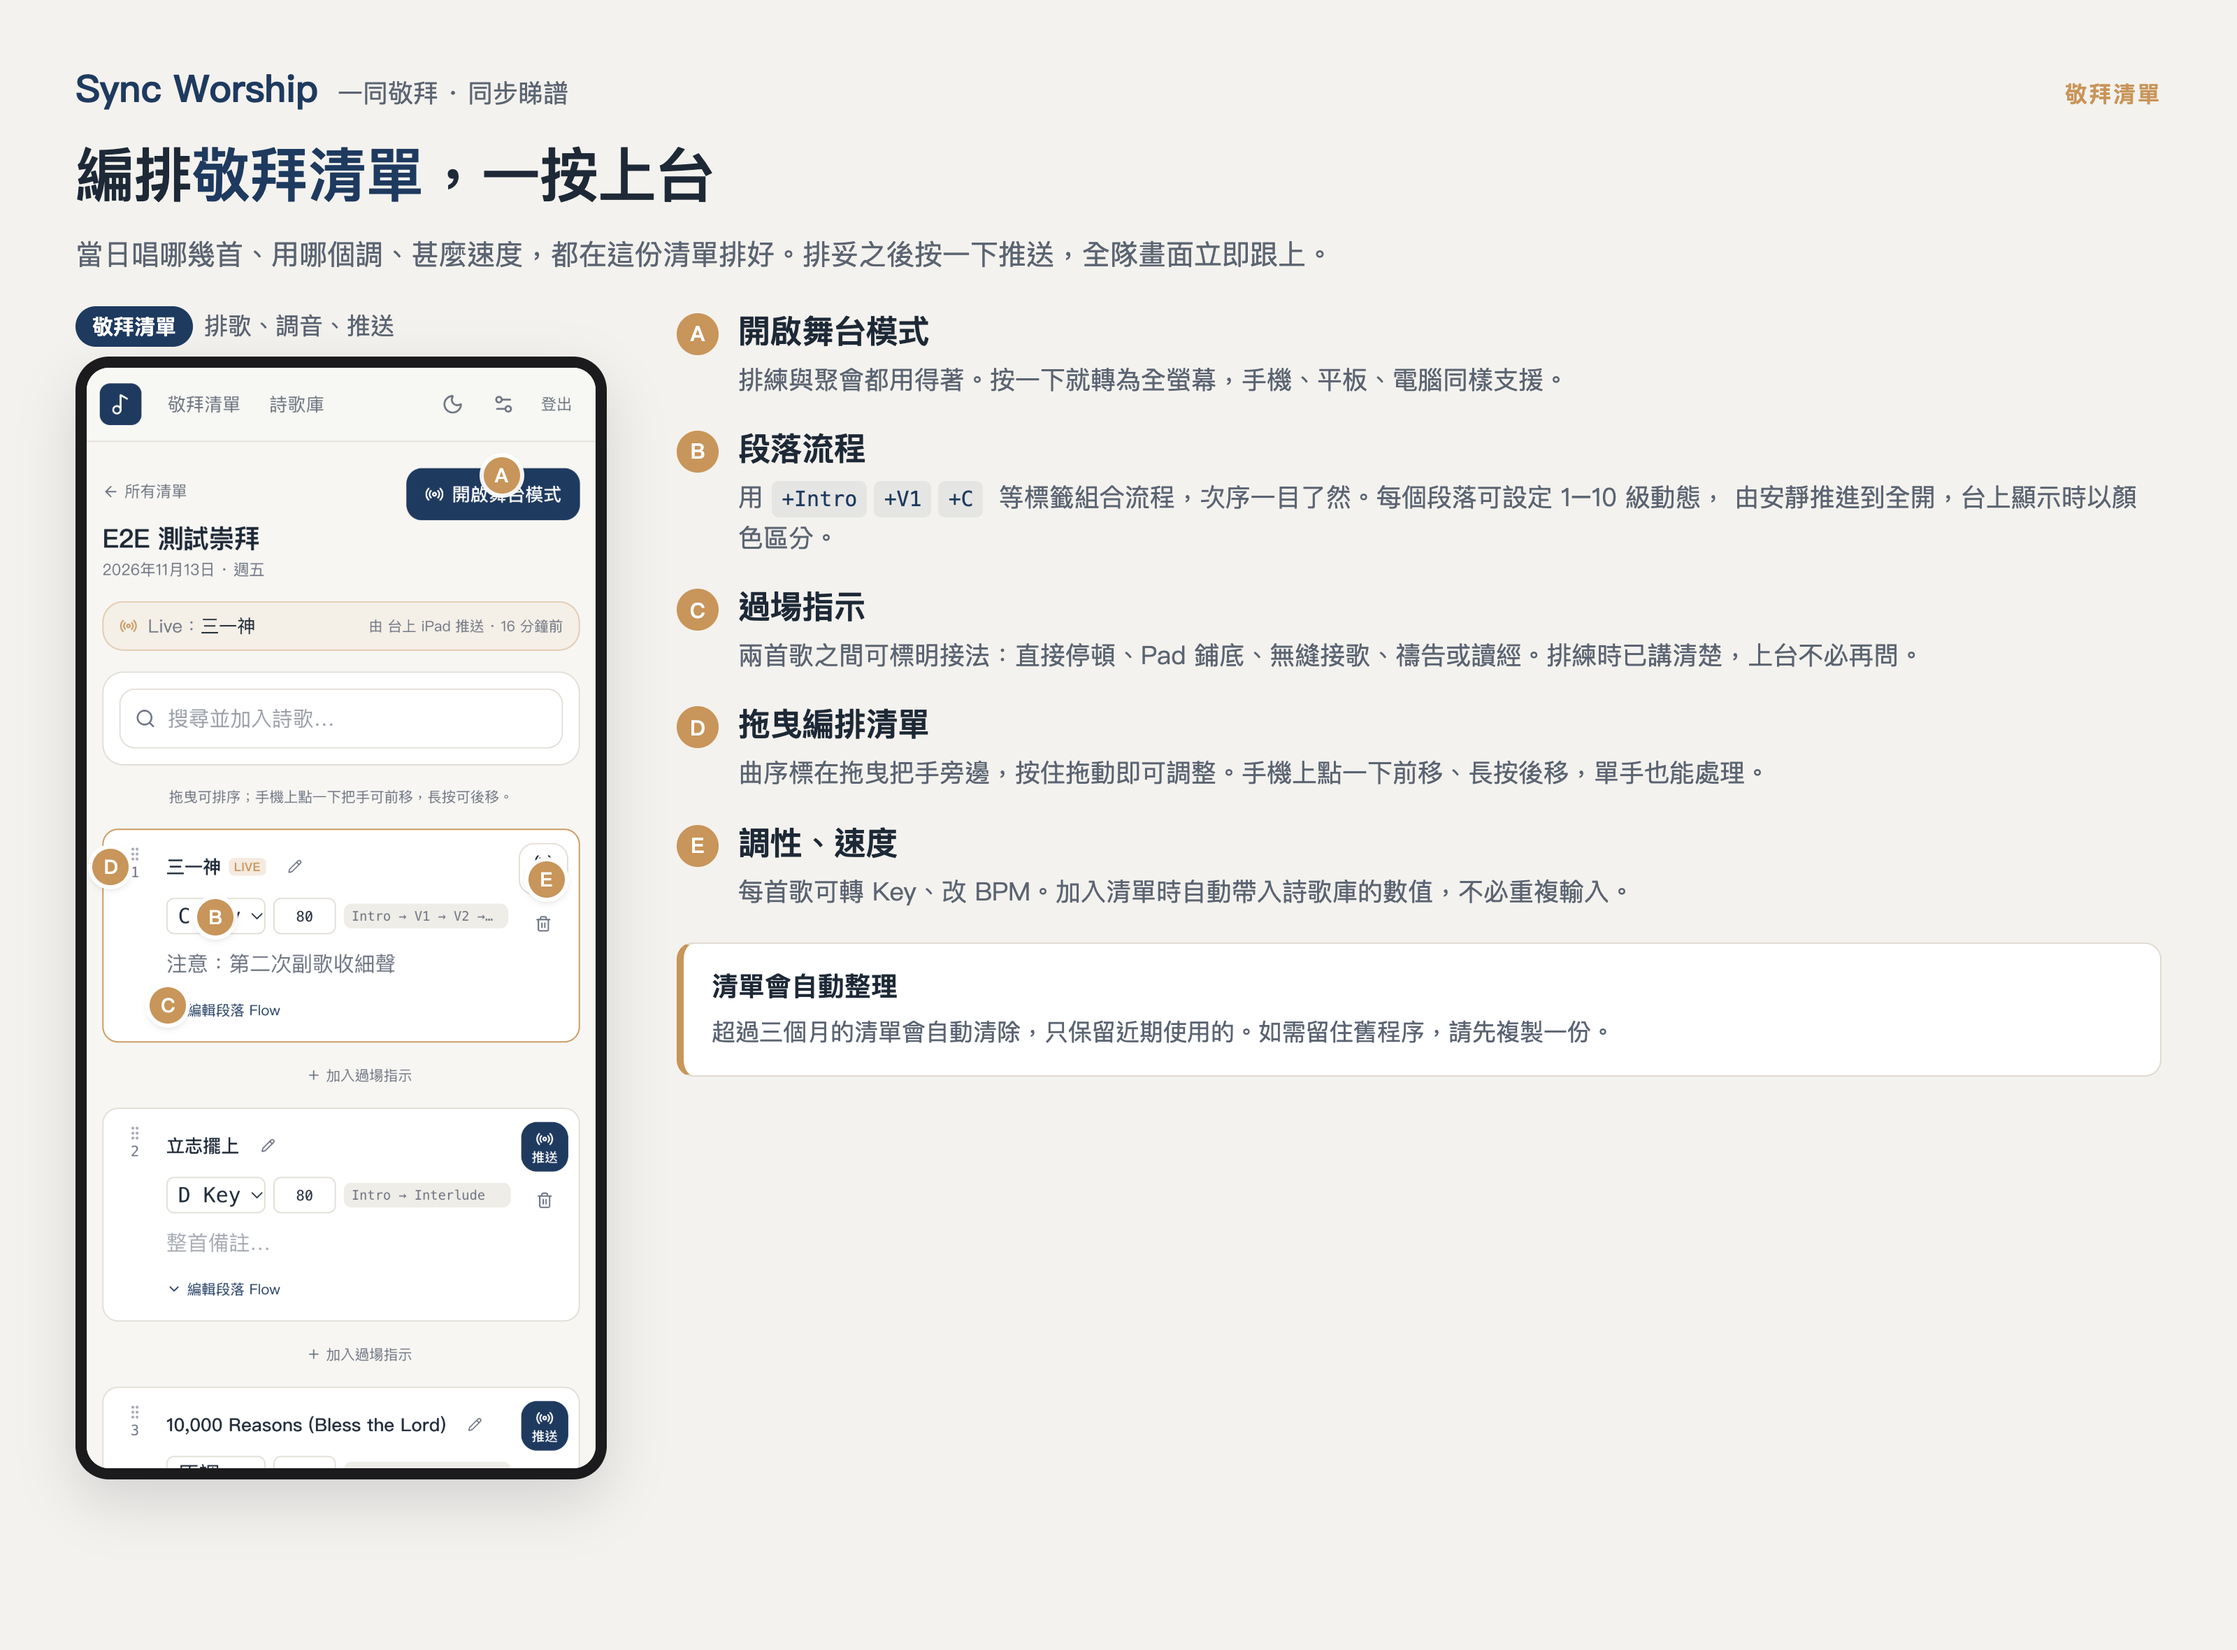
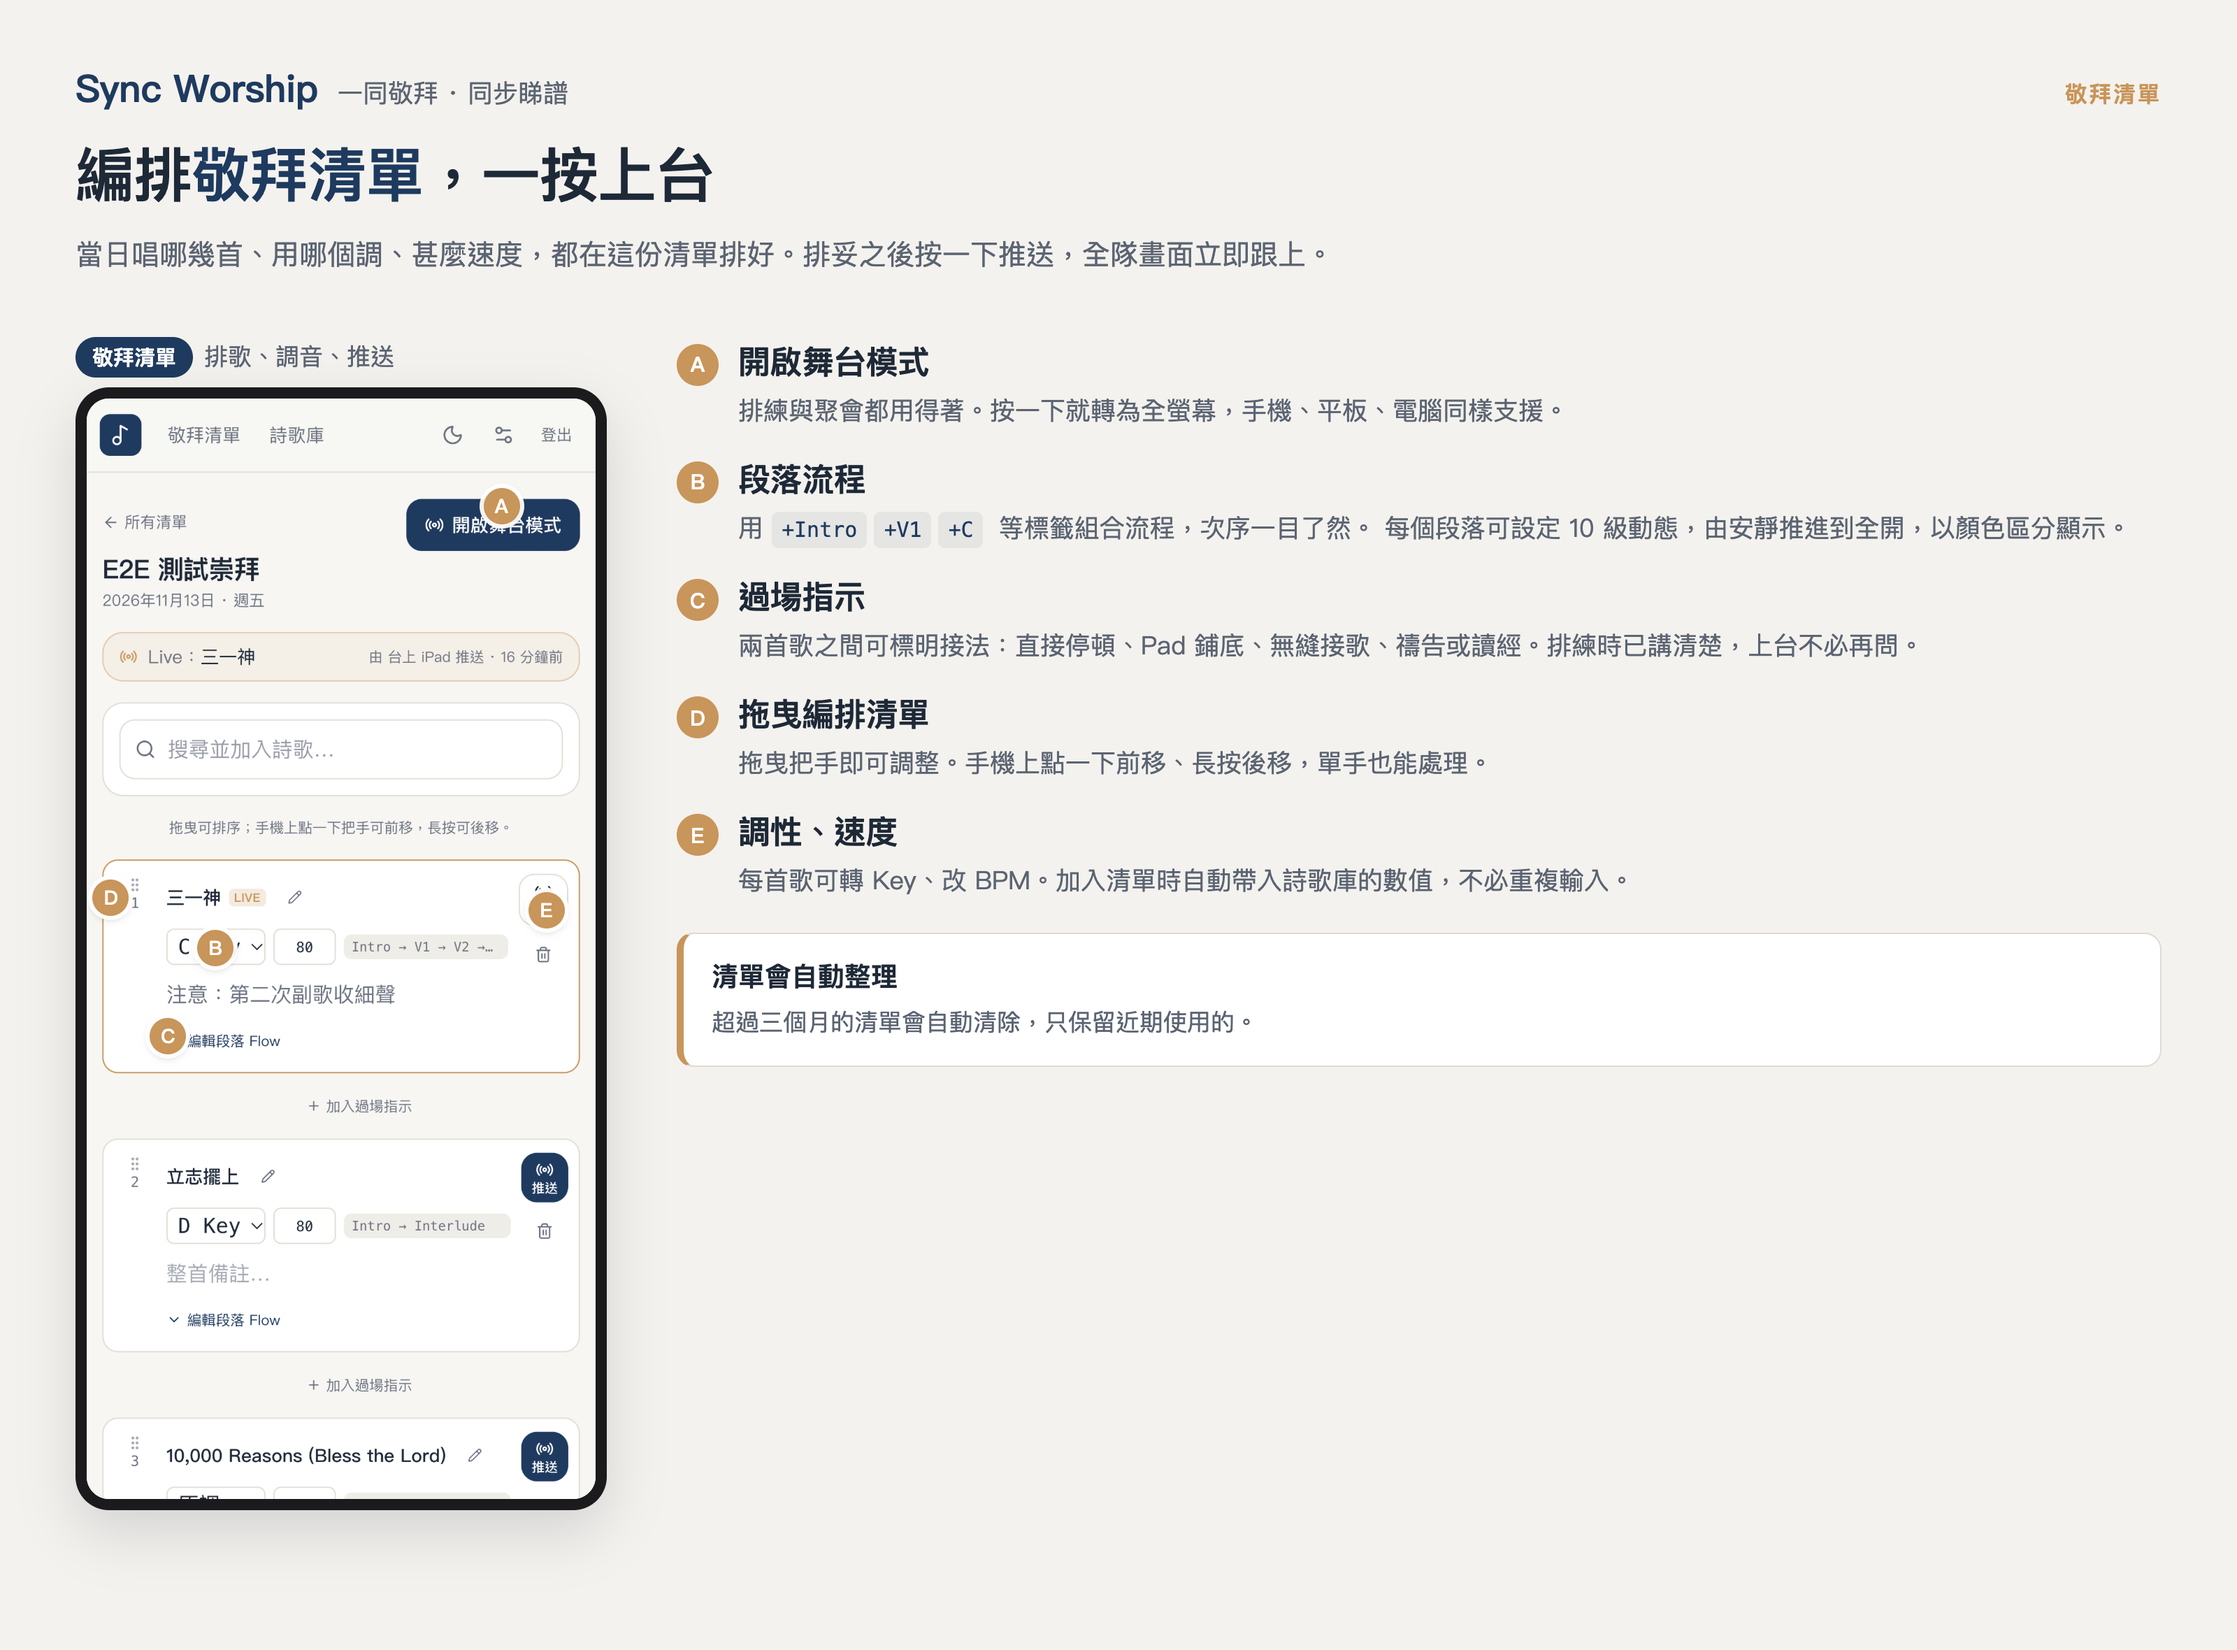
Guide p2: tighter flow/reorder copy, drop duplicate line, more hero spacing

diff --git a/docs/p2-lists.html b/docs/p2-lists.html
@@ -16,7 +16,7 @@
 <h1>編排<b>敬拜清單</b>，一按上台</h1>
 <p class="lead">當日唱哪幾首、用哪個調、甚麼速度，都在這份清單排好。排妥之後按一下推送，全隊畫面立即跟上。</p>
 
-<div class="split">
+<div class="split" style="margin-top:44px">
   <div>
     <div class="shotcap"><span class="pill">敬拜清單</span>排歌、調音、推送</div>
     <div class="phone">
@@ -39,8 +39,8 @@
 
       <div class="pt"><span class="k">B</span>
         <div><b>段落流程</b>
-          <p>用 <span class="mk">+Intro</span><span class="mk">+V1</span><span class="mk">+C</span> 等標籤組合流程，次序一目了然。每個段落可設定 1–10 級動態，
-          由安靜推進到全開，台上顯示時以顏色區分。</p></div></div>
+          <p>用 <span class="mk">+Intro</span><span class="mk">+V1</span><span class="mk">+C</span> 等標籤組合流程，次序一目了然。
+          每個段落可設定 10 級動態，由安靜推進到全開，以顏色區分顯示。</p></div></div>
 
       <div class="pt"><span class="k">C</span>
         <div><b>過場指示</b>
@@ -48,7 +48,7 @@
 
       <div class="pt"><span class="k">D</span>
         <div><b>拖曳編排清單</b>
-          <p>曲序標在拖曳把手旁邊，按住拖動即可調整。手機上點一下前移、長按後移，單手也能處理。</p></div></div>
+          <p>拖曳把手即可調整。手機上點一下前移、長按後移，單手也能處理。</p></div></div>
 
       <div class="pt"><span class="k">E</span>
         <div><b>調性、速度</b>
@@ -57,7 +57,7 @@
 
     <div class="box">
       <b>清單會自動整理</b>
-      <p>超過三個月的清單會自動清除，只保留近期使用的。如需留住舊程序，請先複製一份。</p>
+      <p>超過三個月的清單會自動清除，只保留近期使用的。</p>
     </div>
   </div>
 </div>
